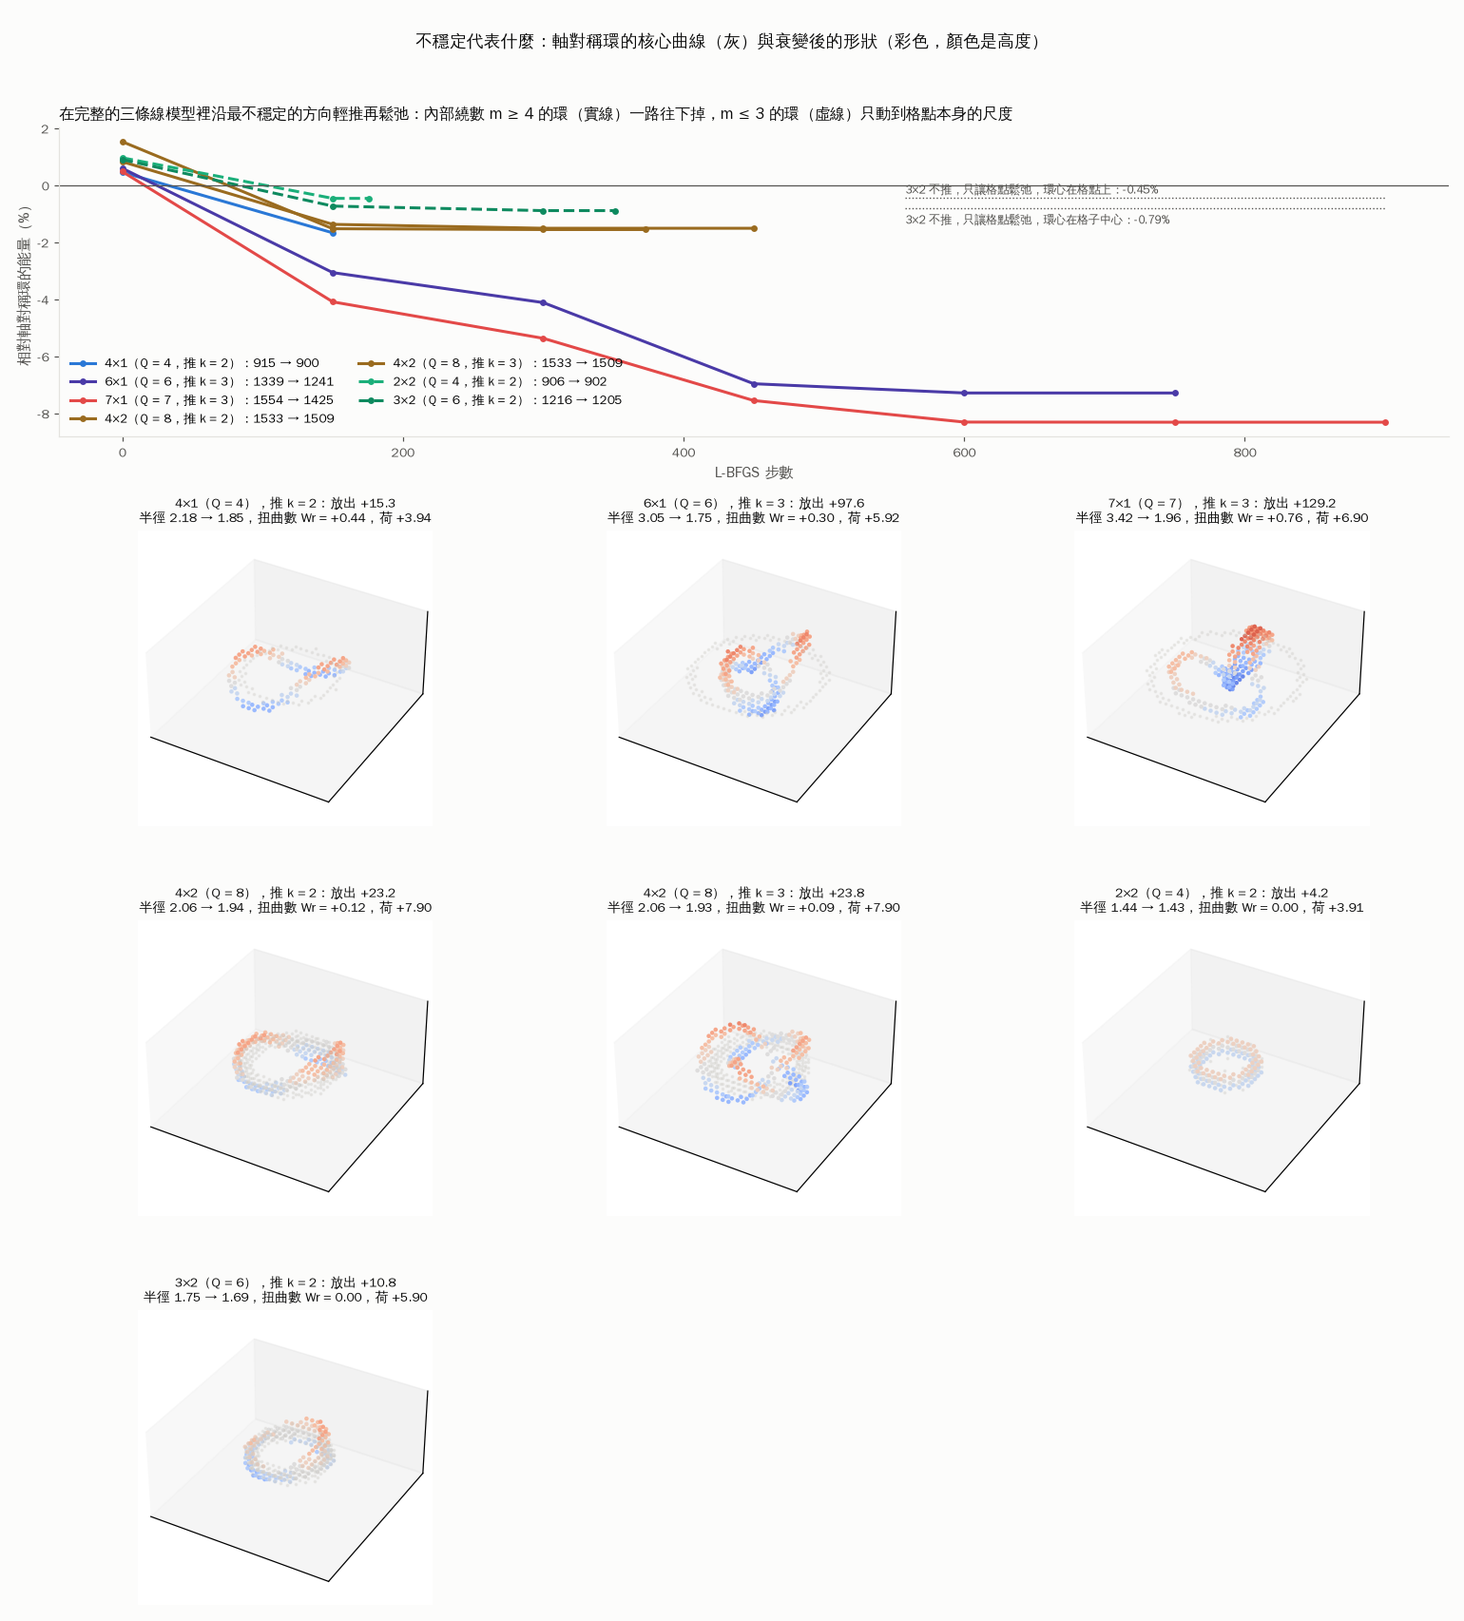
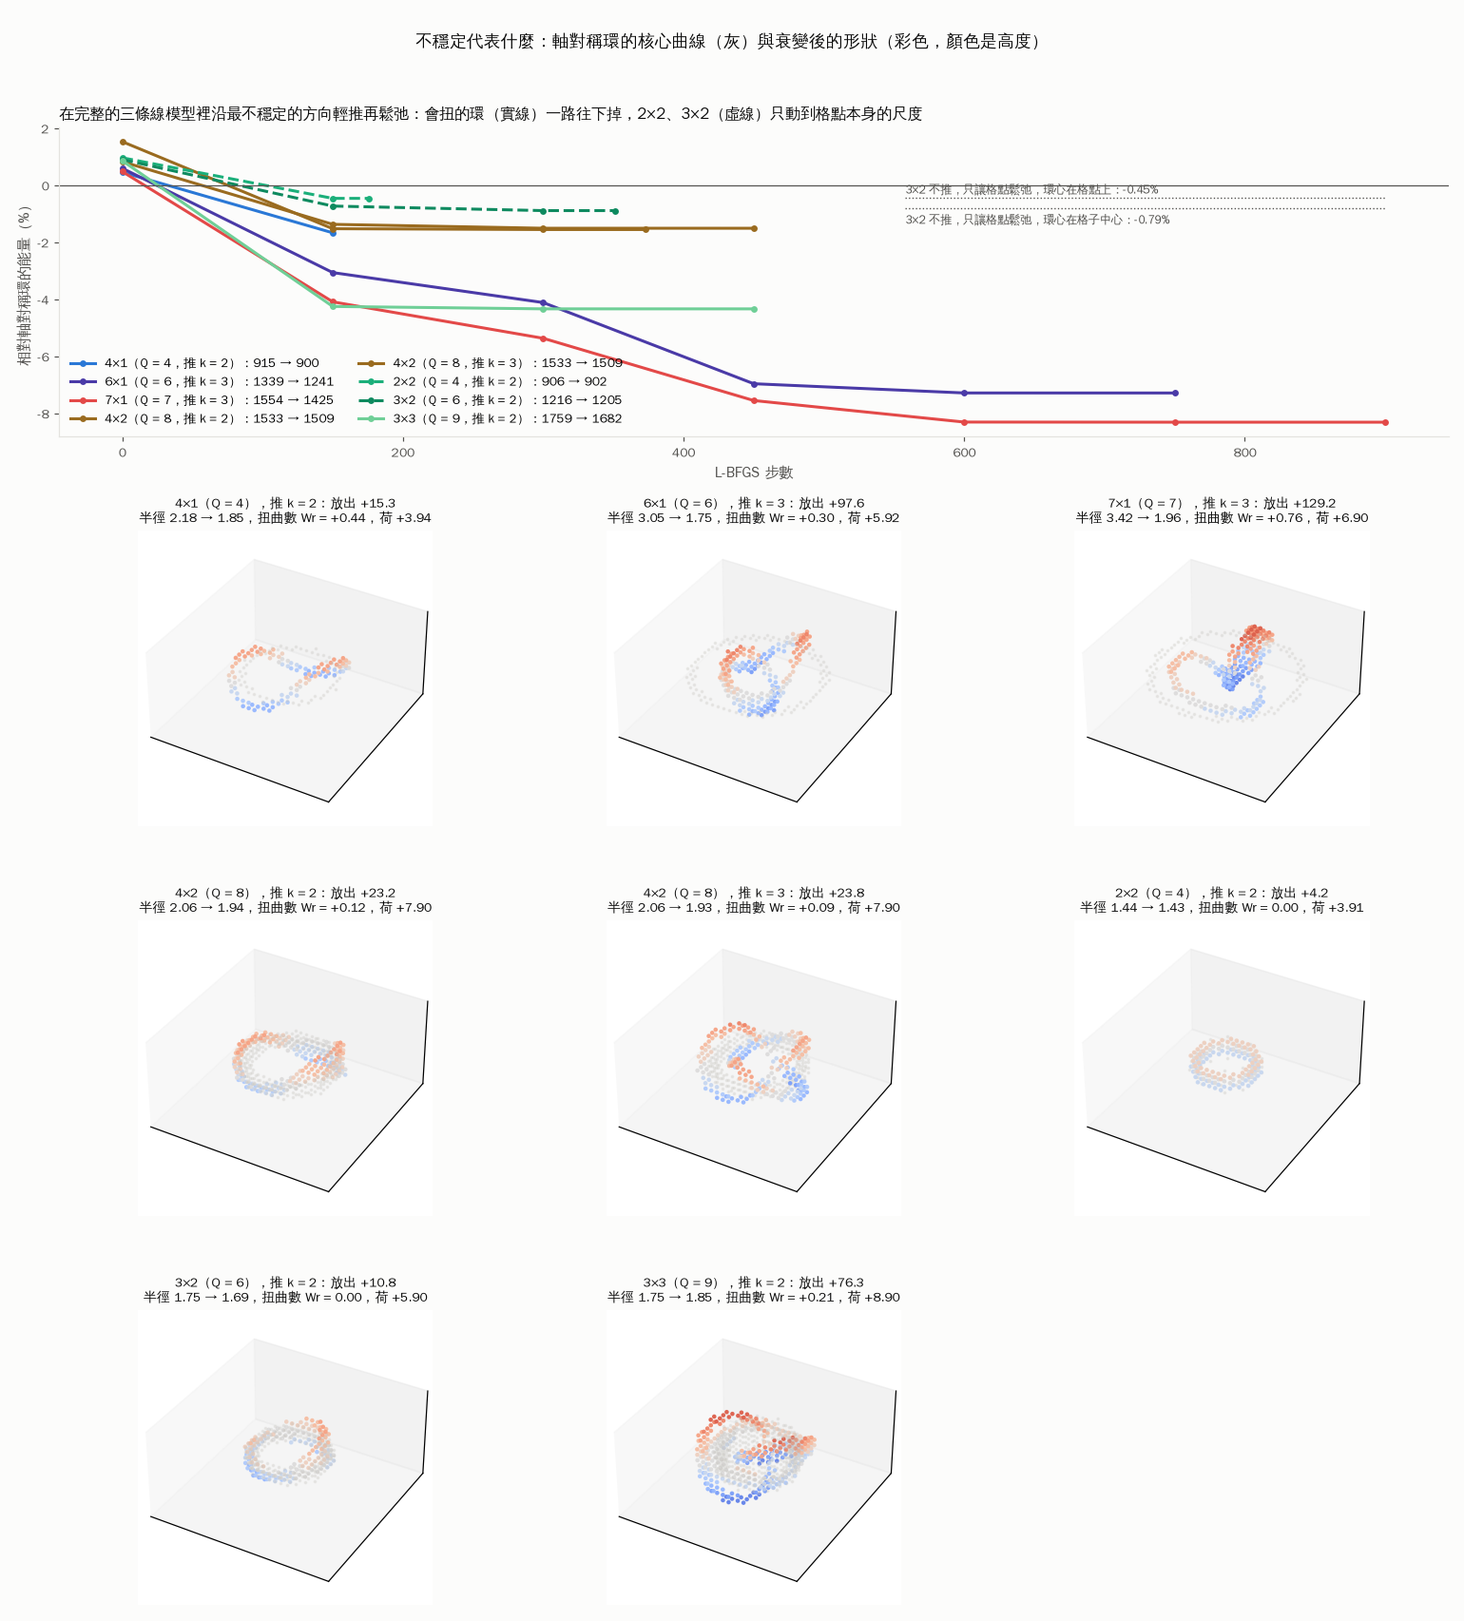
R6 §5.22: 3×3 also supercoils — the m >= 4 threshold is refuted too
The prediction written before the run (3×3, m = 3, stable) failed: pushed
along k = 2 it grows a two-lobed chiral helix (phase −90°, writhe +0.13 to
+0.21) and releases 4.3 %.  Neither m/n (refuted by 4×2) nor m decides the
threshold; empirically every axial ring tried with Q >= 7 supercoils.
After the 3D relaxations the odd composite 9 also sits above 8, so the
residual excess at 5 and 7 may be parity rather than primality.

Claude-Session: https://claude.ai/code/session_01CHKvHF3XdzKWxHqo5BZVVX

Changed region(s): [[0.2805, 0.0622, 0.6857, 0.0933], [0.4675, 0.8704, 0.561, 0.9326], [0.4364, 0.7771, 0.5922, 0.8082]]

diff --git a/paper1/charged_mode/plot_prime_decay.py b/paper1/charged_mode/plot_prime_decay.py
@@ -51,7 +51,7 @@ def main(fn="figures/prime_decay_R6.png"):
         E = [r["E_seed"]] + [h[1] for h in r["history"]]
         rel = [100 * (e / r["E_axial_lattice"] - 1) for e in E]
         lab = f"{r['m']}×{r['n']}（Q = {r['Q']}，推 k = {r['k']}）：{r['E_axial_lattice']:.0f} → {r['E_final']:.0f}"
-        ax.plot(it, rel, color=COL.get(r["key"], INK2), lw=2, marker="o", ms=3.5, ls="-" if r["m"] >= 4 else "--", label=lab)
+        ax.plot(it, rel, color=COL.get(r["key"], INK2), lw=2, marker="o", ms=3.5, ls="--" if r["key"] in ("2x2", "3x2") else "-", label=lab)
     # undeformed relaxations, relative to the same ring embedded at a lattice site (as the decays are)
     site = {r["key"]: r["E_axial_lattice"] for r in allruns if not any(r.get("shift", [0]))}
     xmax = max(h[0] for r in runs for h in r["history"])
@@ -70,7 +70,7 @@ def main(fn="figures/prime_decay_R6.png"):
     for s in ("left", "bottom"):
         ax.spines[s].set_color(GRID)
     ax.tick_params(colors=INK2, labelsize=9)
-    ax.set_title("在完整的三條線模型裡沿最不穩定的方向輕推再鬆弛：內部繞數 m ≥ 4 的環（實線）一路往下掉，m ≤ 3 的環（虛線）只動到格點本身的尺度",
+    ax.set_title("在完整的三條線模型裡沿最不穩定的方向輕推再鬆弛：會扭的環（實線）一路往下掉，2×2、3×2（虛線）只動到格點本身的尺度",
                  fontsize=10.5, color=INK, loc="left")
     for j, r in enumerate(runs):
         ax = fig.add_subplot(gs[1 + j // 3, j % 3], projection="3d")

diff --git a/paper1/charged_mode/prime_decay.py b/paper1/charged_mode/prime_decay.py
@@ -279,7 +279,7 @@ def summary():
     axial, lattice = {}, {}
     for k, r in fe.items():
         Q = r["m"] * r["n"]
-        if Q <= 8 and (Q not in axial or r["E"] < axial[Q][1]):
+        if Q <= 9 and (Q not in axial or r["E"] < axial[Q][1]):
             axial[Q] = (k, r["E"])
     for f in sorted(glob.glob(os.path.join(DATA, "prime_decay_*_k*.json"))):
         r = json.load(open(f))

diff --git a/paper1/charged_mode/FLAG_PAIR_R6.md b/paper1/charged_mode/FLAG_PAIR_R6.md
@@ -17,7 +17,7 @@
 - **共振相消與「1」（§5.19）**：零點和隨機矩陣的頻譜把同樣多的總權重留下來（都是完全隨機的一半：能階排斥造成的相消），但零點把其中 90% 集中在質數上（質數只佔時間軸的 5.5%），隨機矩陣只有 9%。統計決定能抵消多少，質數決定共振落在哪裡。在乘法的世界裡「1」是真空，質數是基本粒子；弦的諧波是加法的結構。我們模型的環荷 Q = m × n 是乘法的，質數荷的環只能往一個方向繞：這是可以檢驗的「質數受挫」預測（未算）。
 - **質數荷受挫（§5.20）**：在我們模型的單一連結扇區裡，算了所有 Q = m × n ≤ 8 的軸對稱環（m 繞軸、n 繞管）。合數 4、6、8 最便宜的是兩個方向都繞（2×2、3×2、4×2），E/Q^¾ 約 320；質數 Q ≥ 5 只能 Q×1，貴 5.4%（Q = 5）與 12.9%（Q = 7），而且 E(7) > E(8)。我事先「Q×1 永遠最便宜」的預測錯了。限軸對稱：質數可能因此去打結（未算）。
 - **質數荷：推到 12，以及非軸對稱穩定性（§5.21）**：荷 11 只能 11×1，比相鄰合數貴 20.2%，E(11) > E(12)；質數的代價是 5 → 5.9%、7 → 13.4%、11 → 20.2%，越大越貴（預測成立）。非軸對稱：單方向的環（Q ≥ 4）都會彎曲、扭轉，最強的是三瓣形；平衡的 2×2、3×2 穩定。所以荷 ≥ 5 的質數沒有穩定的軸對稱形狀可選，基態必然不是軸對稱環（可能打結，依記憶荷 7 是三葉結）。真正的代價要做三維鬆弛才知道。
-- **不穩定代表什麼（§5.22，使用者的批評：不穩定 ≠ 不對）**：不穩定的軸對稱環是「扭得太緊」的環。它在一兩個介子週期內（成長率 γ ≤ 0.64）自發扭成有手性的超螺旋，把一部分扭轉變成扭曲（Lk = Tw + Wr；Wr = +0.1 到 +0.8，全部同號），環縮小，放出 1.5–8% 的能量（8×1 超過 13%）。荷不變、不漏到第三條線、沒有打結。所以它不是錯的解，而是對稱破缺的帽頂（像變形原子核的球形組態），同時是一個很寬的共振；6×1 的終點是比 3×2 高的形狀異構體。門檻是內部繞數 m ≥ 4：4×2 的事前檢驗否證了我原本的 m/n 讀法。質數的代價在三維裡縮小到約 3%（Q = 5）與 5%（Q = 7），沒有消失；紙上論證指向打結（下一步）。撤回「3×2 是亞穩態」：那是格點釘扎。
+- **不穩定代表什麼（§5.22，使用者的批評：不穩定 ≠ 不對）**：不穩定的軸對稱環是「扭得太緊」的環。它在一兩個介子週期內（成長率 γ ≤ 0.64）自發扭成有手性的超螺旋，把一部分扭轉變成扭曲（Lk = Tw + Wr；Wr = +0.1 到 +0.8，全部同號），環縮小，放出 1.5–8% 的能量（8×1 超過 13%）。荷不變、不漏到第三條線、沒有打結。所以它不是錯的解，而是對稱破缺的帽頂（像變形原子核的球形組態），同時是一個很寬的共振；6×1 的終點是比 3×2 高的形狀異構體。門檻不是 m/n（4×2 否證），也不是內部繞數 m（3×3 否證；兩次都是我事前寫下的預測）；經驗上 Q ≥ 7 的軸對稱環全部會扭。質數的代價在三維裡縮小到約 3%（Q = 5）與 5%（Q = 7），沒有消失；紙上論證指向打結（下一步）。撤回「3×2 是亞穩態」：那是格點釘扎。
 - **四條線的穿越（§5.17）**：01 環與 23 環交叉或互扣時，沒有找到會長大的混合模，可以穿過彼此。但兩環完全同軸疊在一起時，組態是鞍點：有一個扭轉混合的負模（λ = −0.024，貼在核心上），我事先「仍然穩定」的預測錯了。沿直線這個坑只有 0.22 深；它會不會一路融合成荷 2 的雙繞環（約 509 對 641），要做非線性鬆弛才知道。「彼此看不見」的兩族，核心一重合就能開始混合。
 - **ζ 零點對應的波（§5.16）**：我們算的質數頻譜，字面上就是一片「質數光柵」（狹縫在 log p）的繞射圖樣，亮紋在 ζ 零點。反過來，把零點排成一維晶體去繞射，峰出現在質數的對數：1000 個零點的波加起來，凹陷只在質數與質數的次方（到 64 一個不漏、沒有多的）；同一個量只用質數算，逐點相差 1.2 × 10⁻³（尖峰深 32）。這是定理（顯式公式），不是擬合。自然界還沒有已知的系統頻率正好是這些零點（Hilbert–Pólya 猜想）；統計上零點像沒有時間反演的量子混沌能階（GUE）。我們的模型有時間反演對稱，所以就算混沌也該是 GOE。
 - **不穩定 → 穩定**：κ₃ = 0 時每個嵌入物體都會漏到第三條線（雙繞環 4 個方向、單一漩渦 6 個、A₁,₂ 20 個）；三循環項把它們全部穩住，門檻 0.277、0.554、0.645（第三輪另一扇區 0.919），自然值 2 遠在窗口內。門檻以下，Q = 2 的最低態是一個三條線都參與的新解（κ₃ = 0 時比雙繞環低 16.8）。
@@ -1217,6 +1217,7 @@ d = 1 時撐住所需的力只剩 0.014（d = 1.5 時是 24），也就是這個
 | 8×1 | 8 | k = 4 | 1771.2 | ≤ 1526.9* | ≥ 244（≥ 13.8%） | 4.07 → … | … | … | … |
 | 4×2 | 8 | k = 2 | 1532.5 | 1509.4 | 23.2（1.5%） | 2.06 → 1.94 | +0.11 | 7.91 | 0 |
 | 4×2 | 8 | k = 3 | 1532.5 | 1508.7 | 23.9（1.6%） | 2.06 → 2.02 | +0.09 到 +0.10 | 7.90 | 0 |
+| 3×3 | 9 | k = 2 | 1758.8 | 1682.5 | 76.3（4.3%） | 1.75 → 1.85 | +0.13 到 +0.21 | 8.90 | 0 |
 | 2×2 | 4 | k = 2 | 905.8 | 901.6 | 4.2（0.46%） | 1.44 → 1.43 | 0.00 | 3.91 | 0 |
 | 3×2 | 6 | k = 2 | 1216.3 | 1205.4 | 10.8（0.89%） | 1.75 → 1.69 | 0.00 | 5.90 | 0 |
 | 3×2，不推 | 6 | — | 1216.3 | 1210.9 | 5.4（0.45%） | 1.75 → 1.75 | 0.00 | 5.88 | 0 |
@@ -1227,6 +1228,7 @@ d = 1 時撐住所需的力只剩 0.014（d = 1.5 時是 24），也就是這個
   - 單方向的環全部一路往下掉，放出 1.7–8.3%（8×1 超過 13%）。
   - 終點都還是一條管子，荷不變，完全沒有漏到第三條線（κ₃ = 2 把那條管道關著，與 §4.2 一致）。
   - 4×2 也往下掉（1.5%），變成同樣有手性的形狀（Wr = +0.11）。§5.21 的 FE Hessian 判為「未定」的 4×2，在三維裡是不穩定的。沿 k = 3 推，它變成三瓣的螺旋波（相位 −91°，Wr = +0.09 到 +0.10），能量 1508.7，和兩瓣的那個只差 0.7（在格點釘扎之內）：同一個荷至少有兩個幾乎等能量的超螺旋。
+  - 3×3 也往下掉（4.3%），變成兩瓣的螺旋波（相位 −90°，Wr = +0.13 到 +0.21），三重的核心在一半的方位上分成兩股。這和我事前的預測相反（見下面三）。
   - 2×2 和 3×2 推了以後回到原狀，剩下的只是格點本身的效應（見 §六）。
   - 荷比整數低 1–2%，是格點上積分的誤差（不推的對照組也一樣）。
 
@@ -1260,9 +1262,10 @@ d = 1 時撐住所需的力只剩 0.014（d = 1.5 時是 24），也就是這個
     - 以截面的幾何扭轉 m/n 來算：4×2 是 2，比穩定的 3×1（3）還小，應該穩定。
     - 以內部相位的繞數 m 來算：4×2 是 4，應該不穩定。
   - 我原本傾向 m/n。結果 4×2 不穩定，所以 **m/n 的讀法被否證**，m 的讀法存活。
-  - 現在的經驗規則是「m ≥ 4 就扭成超螺旋，m ≤ 3 穩定」。九個環全部符合，但只有 4×2 是事前的檢驗。〔事後規則＋一次事前檢驗〕
-  - 第二個事前檢驗（計算前寫下）：3×3（m = 3）應該穩定，推了會回到軸對稱、Wr ≈ 0。結果：（計算中）
-- 判讀：**單方向環（以及 m ≥ 4 的環）的不穩定，是扭得太緊的環把一部分扭轉變成空間中的盤繞（超螺旋）。** 終點是有手性的超螺旋環，拓撲不變：荷相同，核心仍是一條管子；核心在每個方位大多只有一股，所以沒有打結（處處只有一股時，這是定理）。
+  - 於是我把規則改成「m ≥ 4 就扭成超螺旋，m ≤ 3 穩定」（九個環全部符合，但這是事後的規則），並在計算前寫下第二個檢驗：3×3（m = 3）應該穩定，推了會回到軸對稱、Wr ≈ 0。
+  - 結果 3×3 不穩定：推 k = 2 後長成兩瓣的螺旋波，放出 4.3%。所以 **m 的讀法也被否證**。兩個簡單的讀法都錯了。（不推的 3×3 對照還在跑，用來扣掉格點對三重核心的鬆弛；就算扣掉，形狀的改變已經足以判定不穩定。）
+  - 現在只能說經驗事實：Q×1 從 Q = 4 起不穩定；平衡的環在 Q = 4（2×2）、6（3×2）穩定，到 Q = 8（4×2）、9（3×3）就不穩定。也就是 Q ≥ 7 時，我們試過的每一個軸對稱環都會扭成超螺旋。門檻由什麼決定，現在不知道。
+- 判讀：**單方向的環（以及 Q ≥ 8 的平衡環）的不穩定，是扭得太緊的環把一部分扭轉變成空間中的盤繞（超螺旋）。** 終點是有手性的超螺旋環，拓撲不變：荷相同，核心仍是一條管子；核心在每個方位大多只有一股，所以沒有打結（處處只有一股時，這是定理）。
 
 **四、所以這裡的「不穩定」是哪一種物理狀態**
 - 不是 (a) 過渡態：下坡方向成對（cos/sin），終點是一整圈只差一個轉角的等價超螺旋，不是兩個不同的盆地。
@@ -1283,6 +1286,7 @@ d = 1 時撐住所需的力只剩 0.014（d = 1.5 時是 24），也就是這個
 | 6 | 3×2：1210.8 | 315.8 | 3×2：1205.4（在格點釘扎之內，見 §六） | 314.4 |
 | 7 | 7×1：1553.1 | 360.9 | 7×1 超螺旋：1424.6 | 331.0 |
 | 8 | 4×2：1525.9 | 320.8 | 4×2 超螺旋：1508.7（三瓣；兩瓣 1509.4；8×1：≤ 1526.9*） | 317.2 |
+| 9 | 3×3：1744.6 | 335.7 | 3×3 超螺旋：1682.5 | 323.8 |
 
 | 質數 | 相對 Q ± 1 的代價：軸對稱 | 三維鬆弛後 |
 |---:|---:|---:|
@@ -1293,6 +1297,7 @@ d = 1 時撐住所需的力只剩 0.014（d = 1.5 時是 24），也就是這個
 - 判讀：
   - 一旦允許非軸對稱，質數的代價縮小一半到三分之二，但在我們找到的態裡**沒有消失**。
   - 這不能說「質數真的比較貴」：衰變後的能量只是局部極小（上界），合數那邊也可能有更低的態。
+  - 而且奇數的合數 9 衰變後是 E/Q^¾ = 323.8，也比偶數的 8（317.2）高。剩下的「代價」可能是奇偶，或只是各次鬆弛停在哪裡，不一定和質數有關；要算 Q = 10（5×2）的衰變，才能量 Q = 9 的局部代價。
   - 紙上的論證指向打結：超螺旋只把 Q 的 1–11% 變成扭曲（Wr = 0.1–0.8）；三葉結本身的扭曲約 3.4（理想三葉結，依記憶），可以解開多得多的扭轉。所以預期打結的 Q = 5、7 會比超螺旋低。如果代價因此消失，「質數受挫」就完全是只看環的假象。這要直接算（下一步）。
 
 **六、照實記錄與自我否證**
@@ -1301,7 +1306,7 @@ d = 1 時撐住所需的力只剩 0.014（d = 1.5 時是 24），也就是這個
    - 對照：把同一個軸對稱環直接放在格子中心（`3x2:2:0:pc`），不推，鬆弛到 1206.7，而且保持軸對稱（不傾斜，Wr ≈ 0）。
    - 所以 5.4 的差裡，4.2 來自環心在格點上還是格子中心（格點釘扎），剩下 1.2 來自方向，都在格點自己的能量地形之內：剛體平移、傾斜的未鬆弛能量差是 −1.3 到 +8（`pinning`）。
    - 結論：軸對稱 3×2 與 §5.21 的 FE Hessian 一致，是穩定的；格點上沒有證據說有更低的彎曲 3×2。
-2. **否證**：「截面的幾何扭轉 m/n 決定穩定性」被 4×2 否證（上面三）。
+2. **否證兩次**：「截面的幾何扭轉 m/n 決定穩定性」被 4×2 否證；改成的「內部繞數 m ≥ 4」又被 3×3 否證（上面三）。兩次都是計算前寫下的預測。
 3. 同理，4×1 超螺旋（900.1）和 2×2（901.6）只差 1.5，在格點誤差之內：Q = 4 的基態是哪一個，未定。
 4. 格點釘扎能約 4（0.35%），所有格點能量的比較都帶著這個大小的誤差。
 5. 「放出的能量」包含格點對嵌入態本身的鬆弛：2×2、3×2 不推時是 0.46%、0.45%。扣掉這部分，4×1 的變形能約 11（1.2%），6×1 約 92（6.8%），7×1 約 122（7.9%），4×2 約 16（1.0%）。
@@ -1318,7 +1323,7 @@ d = 1 時撐住所需的力只剩 0.014（d = 1.5 時是 24），也就是這個
    - 格點上的荷已檢查：(α, β) = (1, 1) 是 4.9，(2, 1) 是 6.8，(1, 2) 是 7.6，和 Q = αb + βa = 5、7、8 一致（格點低估 2–5%）。
    - 問題：種子外緣到 r ≈ 5–6，碰到 N = 41 的盒子。要用 N ≈ 61（盒子 ±9），每步貴約 3.3 倍，每個結約 2–5 小時（單核）。
    - 預測（計算前）：Q = 5、7 的三葉結都比超螺旋低，質數的代價降到 ±1% 以內。
-2. 扭轉門檻的更多事前檢驗：6×2（m = 6）應該不穩定，2×3（m = 2）應該穩定。
+2. 門檻由什麼決定：m/n 和 m 兩種讀法都被否證了。算 5×2、2×3、Q = 10 的衰變；同時量 Q = 9、10 的局部代價，分辨剩下的代價是質數、奇偶，還是別的。
 3. 用 §5.9 的時間演化，看軸對稱環自發扭成超螺旋時放出的輻射與手性。
 
 ## 6. 換模式：讓它轉起來（雙螺旋／共振）
@@ -1416,7 +1421,7 @@ d = 1 時撐住所需的力只剩 0.014（d = 1.5 時是 24），也就是這個
 10. **振幅與頻率（§5.11）**：一次中型測試（30% 擾動、t ≈ 20、外圍探針）檢查 κ 小的預言與 2ω 的輻射；只在需要時才跑。
 11. **五條線（§5.14 已做紙上部分）**：時鐘類拉氏量給出 φ³。還要做兩件事：(a) 在格點上直接算五角星漩渦，核對 φ³，以及時鐘質量項下的 ≈ 4.7；(b) 算五角星漩渦分裂成兩個互扣五邊形環的能障。
 12. **四條線的穿越（§5.17 已做靜態部分）**：完全同軸疊合有負模。下一步：(a) 從這個鞍點沿負模做非線性鬆弛，看它停在附近的混合態，還是融合成荷 2 的雙繞環；(b) 同軸疊合但錯開一點（d = 0.3、0.6）時負模何時消失；(c) 在其他格距上確認負模不是格點效應；(d) 有限速度的同軸對撞。
-14. **質數荷受挫（§5.20–§5.22）**：軸對稱扇區已做到 Q = 12，非軸對稱的線性穩定性已做到 Q = 8，三維鬆弛已做（§5.22：超螺旋，代價縮小但沒消失）。下一步：(a) 三葉結種子（Q = 5、7，盒子 N ≈ 61，每個約 2–5 小時）；(b) 扭轉門檻 m ≥ 4 的更多事前檢驗（6×2 應不穩定、2×3 應穩定）；(c) 用時間演化看軸對稱環扭成超螺旋時的輻射；(d) 格距收斂（h = 0.25）；(e) 修正 `nonaxisym` 在軸附近的病態。
+14. **質數荷受挫（§5.20–§5.22）**：軸對稱扇區已做到 Q = 12，非軸對稱的線性穩定性已做到 Q = 8，三維鬆弛已做（§5.22：超螺旋，代價縮小但沒消失）。下一步：(a) 三葉結種子（Q = 5、7，盒子 N ≈ 61，每個約 2–5 小時）；(b) 門檻由什麼決定（m/n 與 m 都被否證）：算 5×2、2×3 等的衰變，並量 Q = 9、10 的局部代價，分辨質數、奇偶或別的；(c) 用時間演化看軸對稱環扭成超螺旋時的輻射；(d) 格距收斂（h = 0.25）；(e) 修正 `nonaxisym` 在軸附近的病態。
 13. **振動譜的間距統計（§5.15，可選）**：看是 Poisson、GOE 還是 GUE，判斷孤子內部的動力學是不是混沌的。
 
 ## 10. 重現
